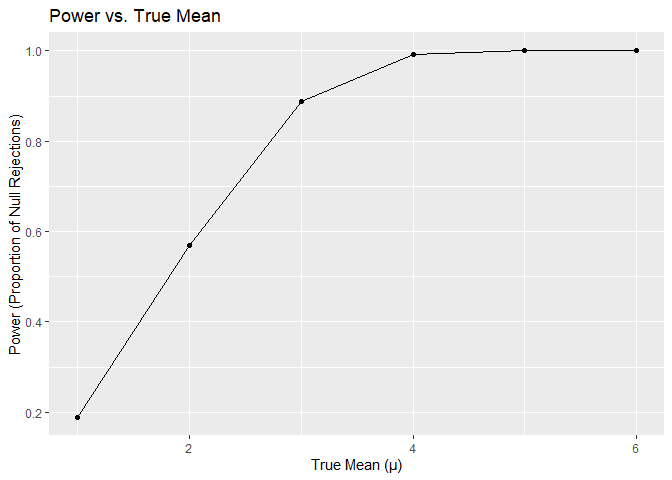
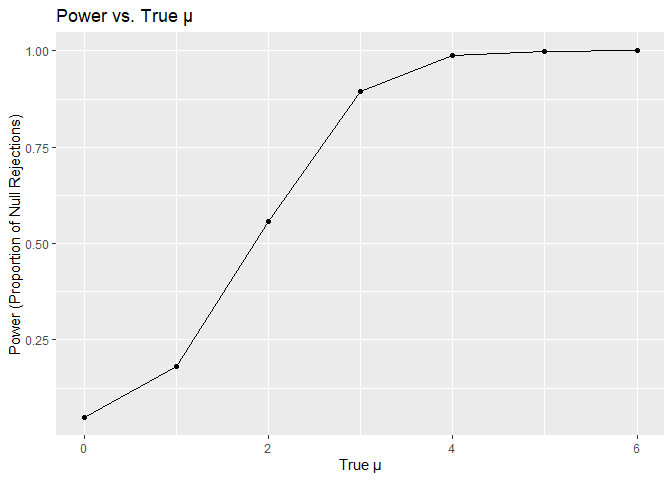
changed some code arrangement

diff --git a/p8105_hw5_zw2975.md b/p8105_hw5_zw2975.md
@@ -12,11 +12,11 @@ birthdays = sample (1:n_days, x, replace = TRUE)
 return(any(duplicated(birthdays)))
 }
 
-set.seed(1)# set a seed
+set.seed(1)# set a seed 
 
-# for a sample size of 2 to 50 people
+# sample size of 2 to 50 people
 size = 2:50
-prob = numeric(length(size)) #create a probability to be filled in
+prob = numeric(length(size)) #create a probability tibble to be filled in
 
 for(i in size) {
   output = replicate(10000, bd_function(i))
@@ -35,6 +35,20 @@ ggplot(data.frame(sizes=size, probability=prob), aes(x = size, y = prob))+
 ```
 
 ![](p8105_hw5_zw2975_files/figure-gfm/p1-1.png)<!-- -->
+
+##### Comment
+
+The plot shows a paradox phenomenon, even with a small group (around 25
+people for sample size), the probability of shared birthdays exceeds
+50%. This probability approaches 100% as the group size nears 50,
+illustrating the counter intuitive likelihood of shared birthdays in
+relatively small groups.
+
+The line shows an increase in probability of shared birthday declines as
+the sample size approaches 30.
+
+These patterns may be due to the normal distribution pattern of
+birthdays across the year when the birthday function was created.
 
 ## Problem 2
 
@@ -63,7 +77,7 @@ power_sim = function(mu, n = 30, sigma = 5, num_sim = 5000, alpha = 0.05) {
 mu_values = 0
 sim_results = bind_rows(lapply(mu_values, power_sim))
 
-mu_values = 1:6
+mu_values = 0:6
 sim_results = bind_rows(lapply(mu_values, power_sim))
 
 # Calculate power and mean estimates for each mu
@@ -74,15 +88,133 @@ power_results = sim_results |>
     avg_estimate_rejected = mean(estimate[p.value < 0.05]))
 ```
 
+##### plot 1
+
 ``` r
 ggplot(power_results, aes(x = true_mu, y = power)) +
   geom_line() +
   geom_point() +
   labs(
-    title = "Power vs. True Mean",
-    x = "True Mean (μ)",
+    title = "Power vs. True μ",
+    x = "True μ",
     y = "Power (Proportion of Null Rejections)"
   )
 ```
 
 ![](p8105_hw5_zw2975_files/figure-gfm/plot%201-1.png)<!-- -->
+
+##### plot 2
+
+``` r
+ggplot(power_results, aes(x = true_mu)) +
+  geom_line(aes(y = avg_estimate), color = "blue", linetype = "dashed") +
+  geom_line(aes(y = avg_estimate_rejected), color = "red") +
+  geom_point(aes(y = avg_estimate), color = "blue") +
+  geom_point(aes(y = avg_estimate_rejected), color = "red") +
+  labs(
+    title = "Average Estimate of μ vs. True μ",
+    x = "True μ",
+    y = "Average Estimate of μ"
+  ) +
+  scale_color_manual(
+    values = c("Average Estimate" = "blue", "Rejected Null Avg Estimate" = "red"),
+    name = "Estimate Type"
+  )
+```
+
+![](p8105_hw5_zw2975_files/figure-gfm/plot%202-1.png)<!-- -->
+
+##### Comment
+
+The average estimate of μ across all samples (blue dashed line) closely
+follows the true value of μ, indicating unbiased estimation. However,
+the red solid line (representing estimates from samples where the null
+was rejected) shows a consistent upward bias, especially at lower μ
+values.
+
+This bias arises because samples with larger effect sizes are more
+likely to reject the null, leading to a selection effect where only
+extreme estimates are considered. Hence, the sample average of μ in
+cases where the null is rejected overestimates the true μ.
+
+## Problem 3
+
+``` r
+# import data
+homic = read.csv("./data files/homicide-data.csv")
+```
+
+###### Description of raw data
+
+The dataset contains 12 and 52179 records of homicides from `50` major
+U.S. cities, with details on each case such as victim demographics
+(`age`, `race`, `sex`), location (`city`, `state`, `latitude`,
+`longitude`), and case status (`Closed by arrest`,
+`Closed without arrest`, or `Open/No arrest`).
+
+``` r
+# create city_state variable
+homic = mutate(homic,
+           city_state= paste(city, state, sep=', '))
+
+# get summary data
+summary = homic |> 
+  group_by(city_state)|>
+  summarise(
+    Total_homicides = n(),
+    Unsolved_homicides = sum(disposition %in% c("Closed without arrest", "Open/No arrest"))
+  )
+```
+
+``` r
+# only leaves out Baltimore, MD
+balt_summary = summary |>
+  filter(city_state =="Baltimore, MD")
+
+# Apply prop.test
+bal_test = prop.test(balt_summary$Unsolved_homicides, balt_summary$Total_homicides)
+
+# broom::tidy the results
+Bal_tidy = broom::tidy(bal_test)
+
+# Extract proportion and confidence interval
+balt_results = Bal_tidy |>
+  select(estimate, conf.low, conf.high)
+print(balt_results)
+```
+
+    ## # A tibble: 1 × 3
+    ##   estimate conf.low conf.high
+    ##      <dbl>    <dbl>     <dbl>
+    ## 1    0.646    0.628     0.663
+
+``` r
+### original
+city_results = summary |>
+  mutate(
+    test_results = map2(Unsolved_homicides, Total_homicides, ~ prop.test(.x, .y))
+  ) |>
+  mutate(tidy_results = map(test_results, broom::tidy)) |>
+  unnest(tidy_results)|>
+  select(city_state, estimate, conf.low, conf.high, p.value)
+```
+
+``` r
+#sort out proportions of unsolved homicides
+city_results = city_results |>
+  arrange(desc(estimate))
+
+# Plot
+ggplot(city_results, aes(x = reorder(city_state, estimate), y = estimate)) +
+  geom_point(size = 3, color = "red") +  
+  # error bar chart
+  geom_errorbar(aes(ymin = conf.low, ymax = conf.high), width = 0.2, color = "gray") +
+  labs(
+    title = "Proportion of unsolved homicides by city",
+    x = "City",
+    y = "Estimated proportion of unsolved Homicides (high to low)"
+  ) + 
+  coord_flip()   # Flip the coordinates for better view
+```
+
+![](p8105_hw5_zw2975_files/figure-gfm/Problem%203%20plot-1.png)<!-- -->
